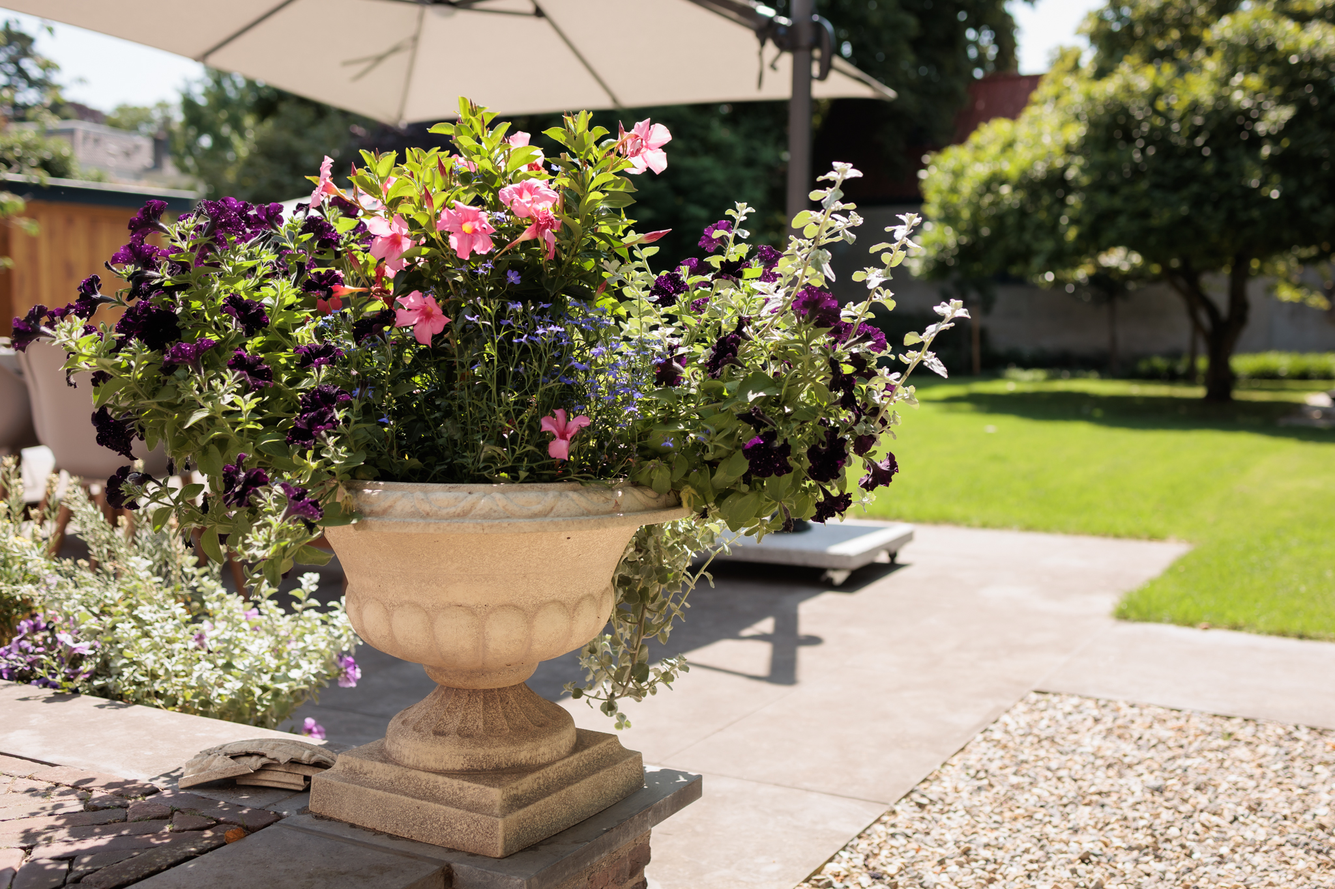
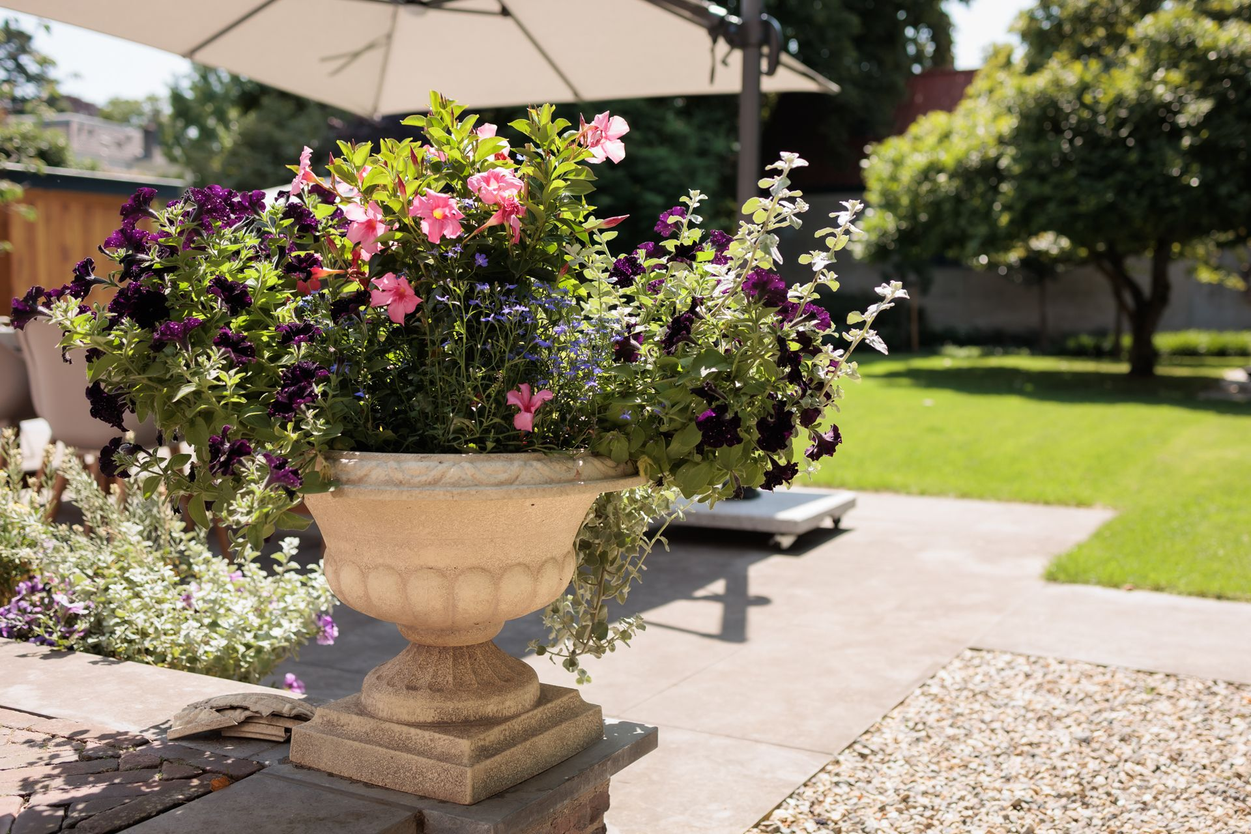
SEO/perf quick wins uit Meraki-aanpak
- Verweesde projectfoto's (velp x2, elst) verwijderd + sitemap opgeschoond
- hero-veranda.jpg 2,2 MB -> 419 KB (1920px q80)
- GA4-events: klik_telefoon, klik_email, contact_formulier_verzonden (na consent)
- 404.html, .htaccess (charset/security/cache), llms.txt toegevoegd
- JSON-LD areaServed -> 9 concrete plaatsen; og:image -> hero-veranda

diff --git a/404.html b/404.html
@@ -1,0 +1,80 @@
+<!DOCTYPE html>
+<html lang="nl">
+<head>
+<meta charset="UTF-8">
+<meta name="viewport" content="width=device-width, initial-scale=1.0">
+<meta name="robots" content="noindex">
+<title>Pagina niet gevonden — Moerman Hoveniers</title>
+<link rel="preconnect" href="https://fonts.googleapis.com">
+<link href="https://fonts.googleapis.com/css2?family=Fraunces:ital,opsz,wght@0,9..144,300;0,9..144,400;0,9..144,500;0,9..144,600;1,9..144,400&family=Manrope:wght@400;500;600;700&display=swap" rel="stylesheet">
+<style>
+  :root{--mag:#A90083;--char:#38363A;--cream:#f3efe7;--sand:#ece6da;--card:#fffdf9;--line:#e7e1d6}
+  *{box-sizing:border-box;margin:0;padding:0}
+  body{font-family:'Manrope',sans-serif;color:var(--char);background:var(--cream);line-height:1.7;
+    min-height:100vh;display:flex;flex-direction:column}
+  a{color:var(--mag);text-decoration:none}
+  h1{font-family:'Fraunces',serif;font-weight:400;line-height:1.1;letter-spacing:-.01em}
+  .wrap{max-width:1180px;margin:0 auto;padding:0 32px;width:100%}
+
+  header{background:var(--char)}
+  .nav{display:flex;align-items:center;justify-content:space-between;padding:24px 32px;max-width:1180px;margin:0 auto}
+  .nav img{height:54px}
+  .nav ul{display:flex;gap:32px;list-style:none;align-items:center}
+  .nav a{color:#fff;font-size:15px;font-weight:500;opacity:.92;transition:opacity .2s}
+  .nav a:hover{opacity:1}
+  .nav .cta{border:1.5px solid rgba(255,255,255,.6);padding:9px 20px;border-radius:30px}
+  .nav .cta:hover{background:#fff;color:var(--char)}
+
+  main{flex:1;display:flex;align-items:center;padding:80px 0}
+  .card{background:var(--card);border:1px solid var(--line);border-radius:28px;padding:64px 48px;
+    max-width:620px;margin:0 auto;text-align:center}
+  .code{font-family:'Fraunces',serif;font-size:96px;line-height:1;color:var(--mag);font-weight:300}
+  .card h1{font-size:clamp(28px,4vw,38px);margin:14px 0 14px}
+  .card p{color:#5d5b5f;margin-bottom:28px}
+  .btn{display:inline-block;background:var(--mag);color:#fff;padding:15px 32px;border-radius:40px;
+    font-weight:700;font-size:15px;transition:transform .2s,box-shadow .2s}
+  .btn:hover{transform:translateY(-2px);box-shadow:0 12px 28px rgba(169,0,131,.35)}
+  .alt-links{margin-top:22px;font-size:14px}
+  .alt-links a{font-weight:600;margin:0 10px}
+
+  footer.ft{background:var(--char);color:#cfcdce;padding:32px 0;text-align:center;font-size:13px}
+  footer.ft a{color:#cfcdce}
+
+  @media(max-width:880px){ .nav ul{display:none} .card{padding:44px 26px} }
+</style>
+</head>
+<body>
+<header>
+  <nav class="nav">
+    <a href="index.html"><img src="img/logo-white.png" alt="Moerman Hoveniers"></a>
+    <ul>
+      <li><a href="index.html">Home</a></li>
+      <li><a href="over-ons.html">Over ons</a></li>
+      <li><a href="index.html#diensten">Diensten</a></li>
+      <li><a href="werk.html">Ons werk</a></li>
+      <li><a href="contact.html">Contact</a></li>
+      <li><a href="contact.html" class="cta">Offerte aanvragen</a></li>
+    </ul>
+  </nav>
+</header>
+
+<main>
+  <div class="wrap">
+    <div class="card">
+      <div class="code">404</div>
+      <h1>Deze pagina is niet gevonden</h1>
+      <p>De pagina die u zoekt bestaat niet (meer) of is verplaatst. Geen zorgen — via onderstaande knop komt u weer op bekend terrein.</p>
+      <a href="index.html" class="btn">Naar de homepage</a>
+      <div class="alt-links">
+        <a href="werk.html">Ons werk</a>·
+        <a href="contact.html">Contact</a>
+      </div>
+    </div>
+  </div>
+</main>
+
+<footer class="ft">
+  <div class="wrap">© 2026 Moerman Hoveniers · Sfeervolle buitenruimtes · TuinKeur gecertificeerd</div>
+</footer>
+</body>
+</html>

diff --git a/index.html b/index.html
@@ -10,12 +10,12 @@
   <meta property="og:url" content="https://hvbutselaar.github.io/moerman-hoveniers/">
   <meta property="og:title" content="Moerman Hoveniers — Sfeervolle buitenruimtes">
   <meta property="og:description" content="Moerman Hoveniers is een TuinKeur-gecertificeerd hovenier in Harskamp, Gelderland. Van tuinontwerp tot aanleg en onderhoud — sfeervolle buitenruimtes op de Veluwe.">
-  <meta property="og:image" content="https://hvbutselaar.github.io/moerman-hoveniers/img/hero-pond.jpg">
+  <meta property="og:image" content="https://hvbutselaar.github.io/moerman-hoveniers/img/hero-veranda.jpg">
   <meta property="og:locale" content="nl_NL">
   <meta name="twitter:card" content="summary_large_image">
   <meta name="twitter:title" content="Moerman Hoveniers — Sfeervolle buitenruimtes">
   <meta name="twitter:description" content="Moerman Hoveniers is een TuinKeur-gecertificeerd hovenier in Harskamp, Gelderland. Van tuinontwerp tot aanleg en onderhoud — sfeervolle buitenruimtes op de Veluwe.">
-  <meta name="twitter:image" content="https://hvbutselaar.github.io/moerman-hoveniers/img/hero-pond.jpg">
+  <meta name="twitter:image" content="https://hvbutselaar.github.io/moerman-hoveniers/img/hero-veranda.jpg">
 <title>Moerman Hoveniers — Sfeervolle buitenruimtes</title>
 <link rel="preconnect" href="https://fonts.googleapis.com">
 <link href="https://fonts.googleapis.com/css2?family=Fraunces:ital,opsz,wght@0,9..144,300;0,9..144,400;0,9..144,500;0,9..144,600;1,9..144,400&family=Manrope:wght@400;500;600;700&display=swap" rel="stylesheet">
@@ -136,17 +136,19 @@
       "latitude": 52.1167,
       "longitude": 5.7667
     },
-    "areaServed": {
-      "@type": "GeoCircle",
-      "geoMidpoint": {
-        "@type": "GeoCoordinates",
-        "latitude": 52.1167,
-        "longitude": 5.7667
-      },
-      "geoRadius": "40000"
-    },
+    "areaServed": [
+      { "@type": "City", "name": "Harskamp" },
+      { "@type": "City", "name": "Otterlo" },
+      { "@type": "City", "name": "Ede" },
+      { "@type": "City", "name": "Barneveld" },
+      { "@type": "City", "name": "Kootwijk" },
+      { "@type": "City", "name": "Kootwijkerbroek" },
+      { "@type": "City", "name": "Uddel" },
+      { "@type": "City", "name": "Veenendaal" },
+      { "@type": "City", "name": "Amerongen" }
+    ],
     "hasCredential": "TuinKeur",
-    "image": "https://hvbutselaar.github.io/moerman-hoveniers/img/hero-pond.jpg",
+    "image": "https://hvbutselaar.github.io/moerman-hoveniers/img/hero-veranda.jpg",
     "priceRange": "€€",
     "openingHoursSpecification": [
       {

diff --git a/cookieconsent.js b/cookieconsent.js
@@ -256,6 +256,25 @@
   /* ---------- publieke API ---------- */
   window.mhOpenCookiePrefs = function () { openPrefs(); };
 
+  /* ---------- GA4-events (alleen na consent: gtag bestaat pas dan) ---------- */
+  window.mhTrack = function (name, params) {
+    if (typeof window.gtag !== 'function') return;
+    try { window.gtag('event', name, params || {}); } catch (e) {}
+  };
+
+  function bindClickEvents() {
+    document.addEventListener('click', function (e) {
+      var a = e.target.closest ? e.target.closest('a[href]') : null;
+      if (!a) return;
+      var href = a.getAttribute('href') || '';
+      if (href.indexOf('tel:') === 0) {
+        window.mhTrack('klik_telefoon', { nummer: href.slice(4) });
+      } else if (href.indexOf('mailto:') === 0) {
+        window.mhTrack('klik_email', { adres: href.slice(7) });
+      }
+    });
+  }
+
   /* ---------- init ---------- */
   function init() {
     injectCSS();
@@ -265,6 +284,7 @@
       a.addEventListener('click', function (e) { e.preventDefault(); openPrefs(); });
     });
     applyConsent();              // laad embeds of toon placeholders volgens huidige keuze
+    bindClickEvents();           // GA4: klik_telefoon / klik_email
     if (!read()) buildBanner();  // eerste bezoek → banner
   }
 

diff --git a/contact.html b/contact.html
@@ -258,6 +258,7 @@
         conf.classList.add('show');
         form.reset();
         btn.textContent = 'Verzonden';
+        if (window.mhTrack) window.mhTrack('contact_formulier_verzonden');
       } else {
         conf.textContent = 'Er ging iets mis. Bel 06 27 178 727 of mail info@moermanhoveniers.nl.';
         conf.classList.add('show');
